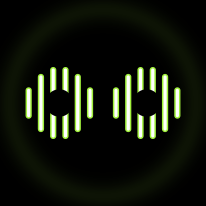
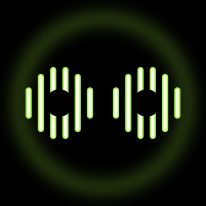
Prepare v0.1.3 BLE/Wi-Fi test release
Bump the S3 firmware version to v0.1.3 and update the top-level README and changelog to mark this release as the recommended baseline for stable BLE provisioning and Wi-Fi validation.

Also replace the listening animation asset set with the new 6-frame pack and regenerate the SPIFFS animation outputs to keep runtime assets aligned with the documented release.

Changed region(s): [[0.0583, 0.0583, 0.932, 0.932]]

diff --git a/README.md b/README.md
@@ -22,15 +22,16 @@ WatcheRobot is an open-source AI assistant robot built on the **SenseCAP Watcher
 
 ### Current Release Track
 
-- Current release target: `0.1.2alpha`
-- This release builds on the integrated mainline and focuses on BLE-priority recovery and bring-up convenience:
-  - BLE provisioning remains available for first-time Wi-Fi setup and recovery after credential cleanup
-  - BLE sessions now take priority while Wi-Fi, discovery, and WebSocket recovery are coordinated after BLE disconnects
-  - Startup display, state transitions, and provisioning handoff remain hardened during cloud bring-up
-  - Physical restart is now reachable earlier in boot and requires only 3 short presses
-  - Runtime input initialization now happens right after boot UI setup instead of waiting for cloud readiness
-  - Local SFX, cloud TTS, SPIFFS behavior actions, and multi-device flashing workflow remain part of the current mainline stack
-- The branch continues to support joint debugging, provisioning validation, and local multi-device integration testing
+- Current release target: `v0.1.3`
+- `v0.1.3` is the recommended baseline for stable **BLE** and **Wi-Fi** testing on the current ESP32-S3 mainline:
+  - BLE provisioning is stable enough for first-time Wi-Fi setup and credential recovery validation
+  - BLE disconnect to Wi-Fi reconnect handoff is hardened for repeated local test cycles
+  - Low-memory BLE-to-Wi-Fi recovery now pauses optional cloud runtime work before retrying Wi-Fi
+  - Recording-time UI updates are guarded under low internal heap to reduce LCD flush failures during connectivity testing
+  - WebSocket runtime memory usage is reduced so BLE / Wi-Fi bring-up is less likely to be blocked by internal heap pressure
+  - Runtime input initialization still happens right after boot UI setup, and physical restart remains available with 3 short presses
+- This release is suitable for repeated BLE pairing, Wi-Fi provisioning, disconnect/reconnect, and local multi-device regression testing
+- Cloud voice throughput and end-to-end server-side interaction remain under active tuning, but BLE and Wi-Fi validation should use `v0.1.3` as the primary test baseline
 
 ---
 

diff --git a/CHANGELOG.md b/CHANGELOG.md
@@ -11,6 +11,27 @@ Versioning follows [Semantic Versioning](https://semver.org/spec/v2.0.0.html).
 
 ---
 
+## [0.1.3] - 2026-04-02
+
+### Added
+- Staged low-memory BLE-to-Wi-Fi recovery flow that can pause BLE advertising, reclaim optional cloud runtime memory, and retry Wi-Fi with a degraded largest-block threshold after repeated heap defers
+
+### Fixed
+- BLE and Wi-Fi recovery is more stable on low-internal-heap devices after BLE disconnects
+- Recording start is less likely to trigger LCD flush `ESP_ERR_NO_MEM` failures when internal heap headroom is too small
+- WebSocket runtime teardown now releases more resources cleanly before reconnect attempts
+
+### Changed
+- Firmware version is now tracked as `v0.1.3`
+- WebSocket client runtime now uses smaller default buffers, dynamic client buffering, and PSRAM-backed audio frame storage to preserve internal RAM for BLE, Wi-Fi, and LCD DMA
+- Listening animation assets were refreshed and the generated SPIFFS animation manifest was updated
+
+### Notes
+- Release focus: stable BLE provisioning and Wi-Fi validation on the current mainline
+- `v0.1.3` is the recommended baseline for repeated BLE pairing, Wi-Fi provisioning, disconnect/reconnect, and recovery-path testing
+
+---
+
 ## [0.1.2alpha] - 2026-04-01
 
 ### Added
